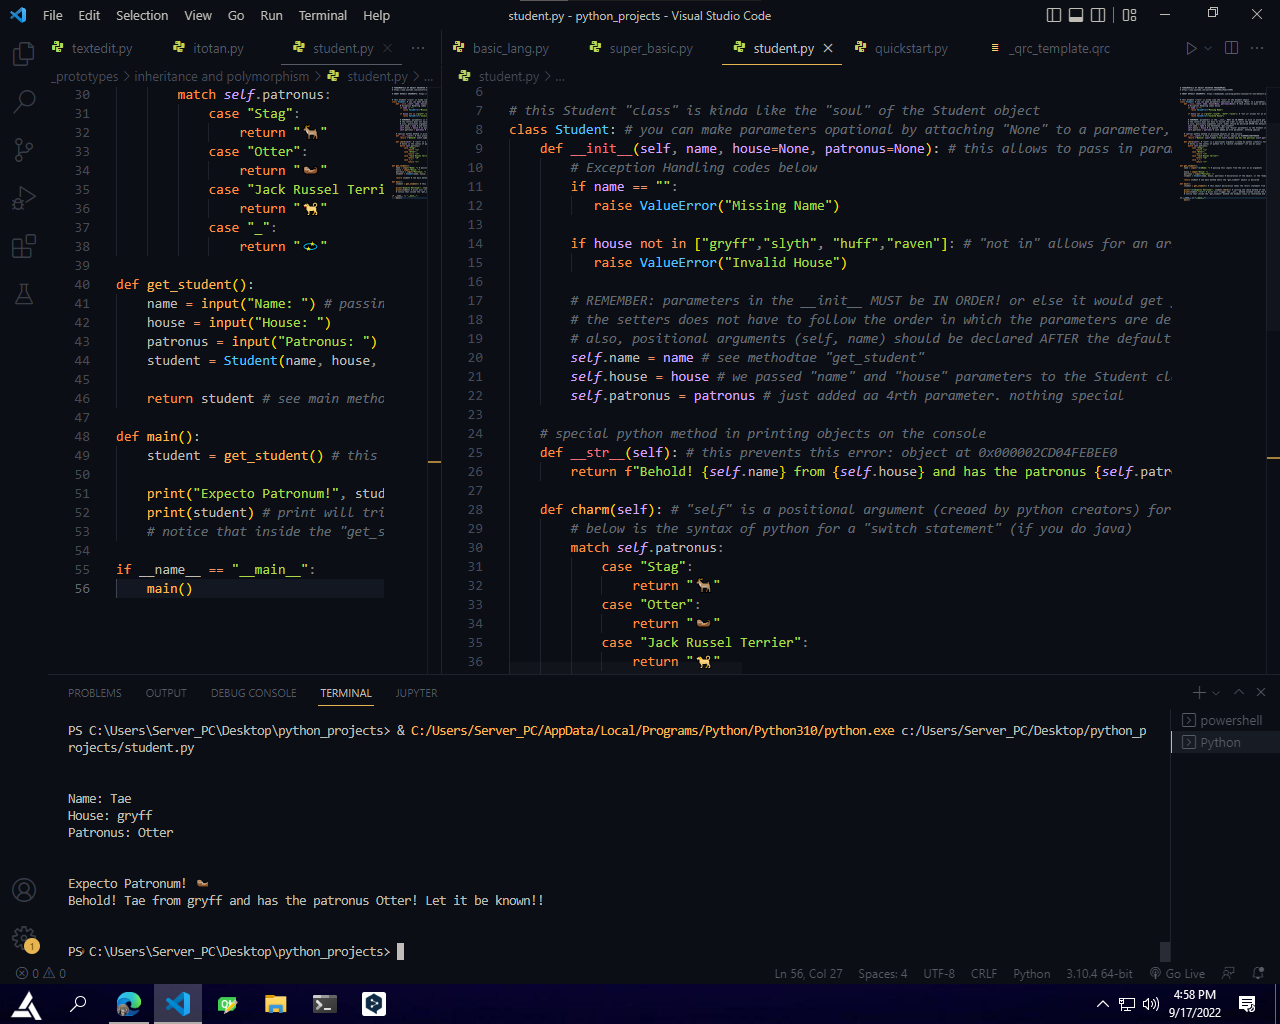
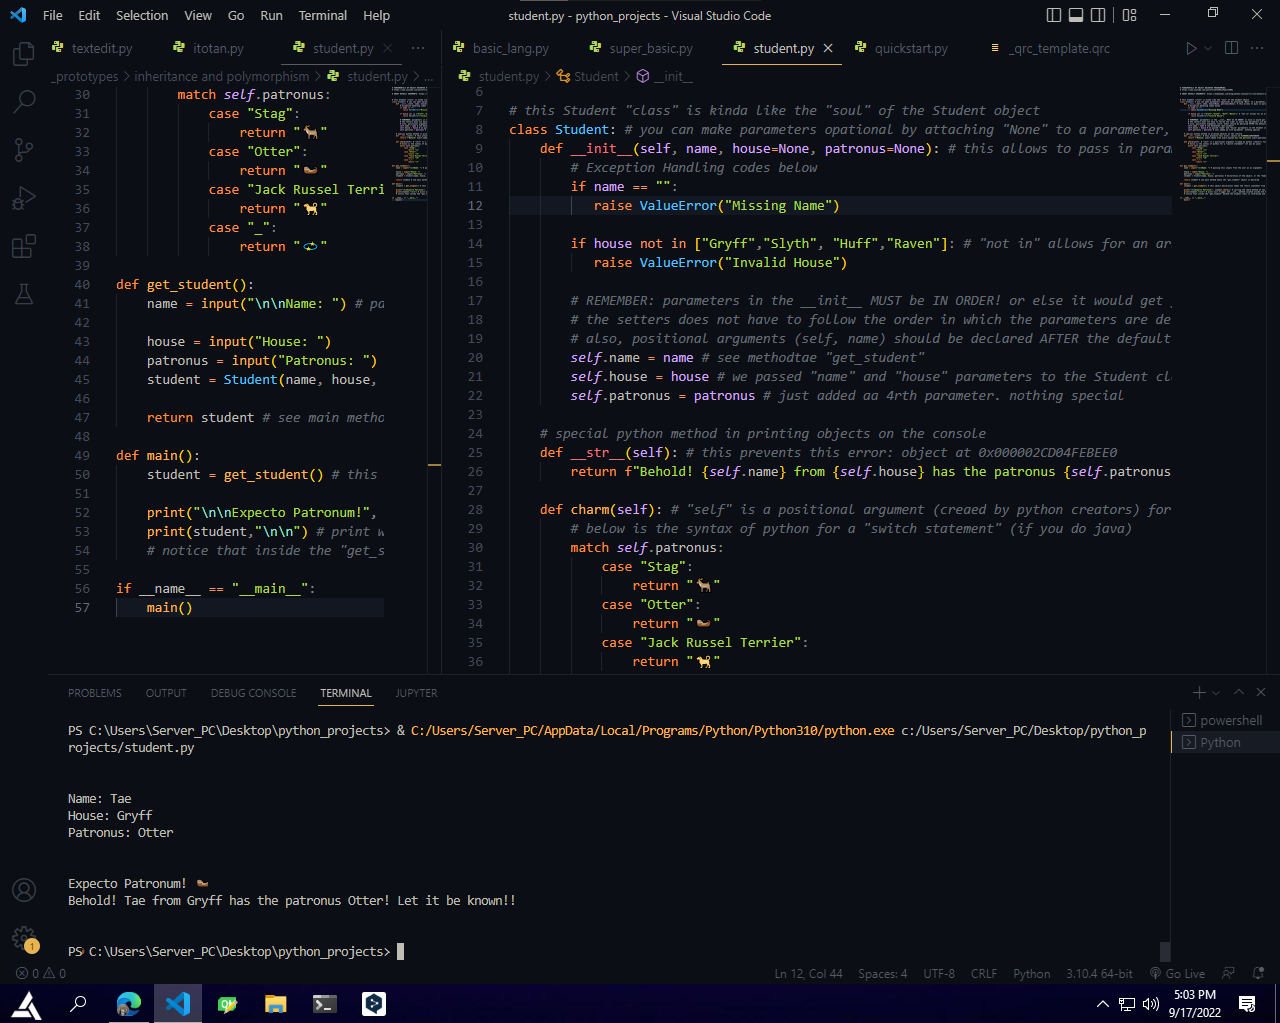
learning fundamentals of OOP

diff --git a/_prototypes/inheritance and polymorphism/student.py b/_prototypes/inheritance and polymorphism/student.py
@@ -11,7 +11,7 @@ class Student: # you can make parameters opational by attaching "None" to a para
         if name == "":
            raise ValueError("Missing Name")
         
-        if house not in ["gryff","slyth", "huff","raven"]: # "not in" allows for an array of values
+        if house not in ["Gryff","Slyth", "Huff","Raven"]: # "not in" allows for an array of values
            raise ValueError("Invalid House")
         
         # REMEMBER: parameters in the __init__ MUST be IN ORDER! or else it would get jumbled when you use it!!
@@ -23,7 +23,7 @@ class Student: # you can make parameters opational by attaching "None" to a para
 
     # special python method in printing objects on the console
     def __str__(self): # this prevents this error: object at 0x000002CD04FEBEE0
-        return f"Behold! {self.name} from {self.house} and has the patronus {self.patronus}! Let it be known!!"
+        return f"Behold! {self.name} from {self.house} has the patronus {self.patronus}! Let it be known!!"
 
     def charm(self): # "self" is a positional argument (creaed by python creators) for allowing access to a method.
         # below is the syntax of python for a "switch statement" (if you do java)    
